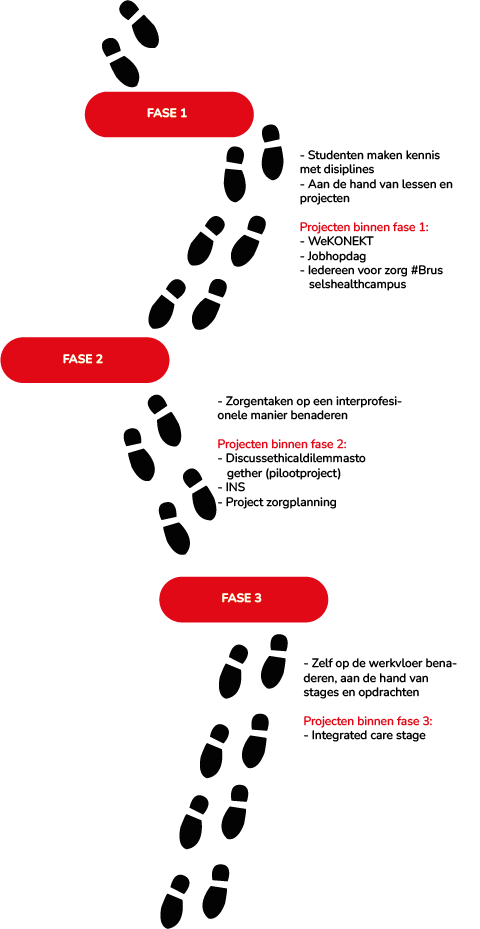
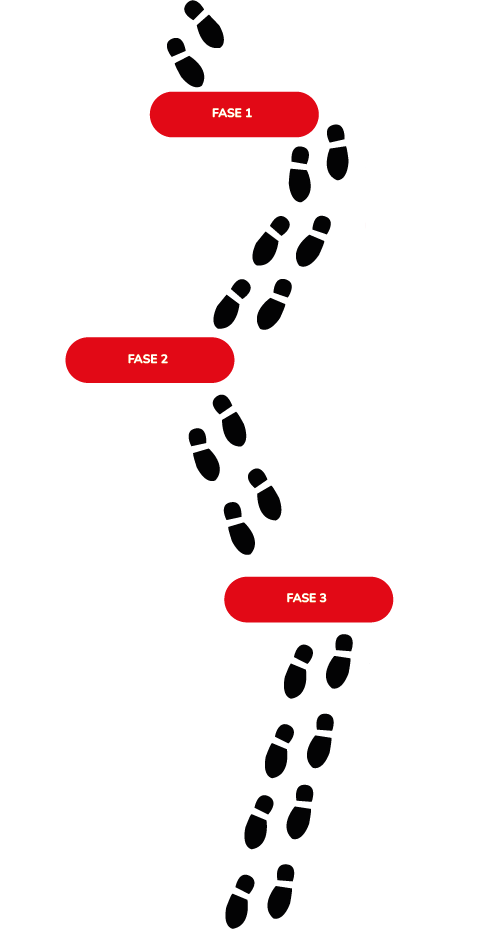
Update

diff --git a/css/style.css b/css/style.css
@@ -11,7 +11,7 @@
         }
         
         #navigation-container {
-            width: 1375px;
+            width: 1200px;
             margin: 0 auto;
             height: 70px;
         }
@@ -89,6 +89,7 @@
             font-size: 70px;
             margin-left: 15%;
             margin-top: 12%;
+            width: 65%;
         }
         
         .frontpage-small {
@@ -216,27 +217,81 @@
         .opleidingen {
             display: grid;
             grid-template-columns: 1fr 1fr;
-        }
-        
-        .logo {
-            height: 100%;
-            object-fit: cover;
-            margin: auto;
-            display: flex;
-            justify-content: center;
-            width: 85%;
-            margin-bottom: 15%;
+            margin-bottom: 5%;
+            grid-gap: 3%;
+            margin-top: 5%;
         }
         
         .opleidingen img {
             display: block;
             margin: auto;
             width: 75%;
+            border-radius: 5px;
+            height: 84%;
+            object-fit: cover;
         }
         
         .opleidingen h2 {
             font-family: 'Nunito', sans-serif;
-            font-size: 1.4em;
+            font-size: 22px;
             margin-left: 13%;
             padding: 1%;
+        }
+        
+        .opleidingen>div:nth-child(1) {
+            grid-column: 1/ 3;
+        }
+        
+        .logo {
+            object-fit: cover;
+            margin: auto;
+            width: 50%;
+        }
+        
+        .backgroundleerlijn {
+            background-image: url("../images/fase.png");
+            background-repeat: no-repeat;
+            height: 1000px;
+            background-position: center;
+            display: grid;
+            grid-template-columns: 1fr 1fr 1fr 1fr 1fr 1fr 1fr 1fr;
+            grid-template-rows: 1fr 1fr 1fr 1fr 1fr 1fr 1fr 1fr;
+        }
+        
+        .title {
+            font-size: 63px;
+            font-weight: 400;
+            color: #e30713;
+            text-align: center;
+            margin-bottom: 3%;
+        }
+        
+        .backgroundleerlijn>div:nth-child(1) {
+            grid-column: 6/8;
+            grid-row: 2/4;
+        }
+        
+        .backgroundleerlijn>div:nth-child(2) {
+            grid-column: 2/4;
+            grid-row: 4/6;
+        }
+        
+        .backgroundleerlijn>div:nth-child(3) {
+            grid-column: 6/8;
+            grid-row: 6/8;
+        }
+        
+        .backgroundleerlijn div h2 {
+            font-family: 'Nunito', sans-serif;
+            font-size: 30px;
+            font-weight: 400;
+            margin-bottom: 2%;
+            color: #e30713;
+        }
+        
+        .backgroundleerlijn div p {
+            margin-bottom: 5%;
+            font-family: 'Nunito', sans-serif;
+            font-size: 22px;
+            font-weight: 400;
         }

diff --git a/pages/wiezijnwe.html b/pages/wiezijnwe.html
@@ -37,46 +37,48 @@
 
 
     <div class="opleidingen">
+
+        <div class="logo"><img src="../images/uab_logo-1.png" alt=""> </div>
         <div class="logo"> <img src="../images/EhB-logo-transparant.png" alt=""></div>
 
         <div class="logo"> <img src="../images/logo.svg" alt=""></div>
 
         <div>
-            <h2>Geneeskunde</h2>
-            <img src="../images/studenten.png" alt="">
+            <h2>Verpleegkunde</h2>
+            <img src="../images/verpleegkunde.png" alt="">
         </div>
         <div>
             <h2>Geneeskunde</h2>
-            <img src="../images/studenten.png" alt="">
+            <img src="../images/geneeskunde.jpg" alt="">
         </div>
         <div>
-            <h2>Geneeskunde</h2>
-            <img src="../images/studenten.png" alt="">
+            <h2>Vroedkunde</h2>
+            <img src="../images/vroedkunde.jpg" alt="">
         </div>
         <div>
-            <h2>Geneeskunde</h2>
-            <img src="../images/studenten.png" alt="">
+            <h2>Revalidatiewetenschappen en kinesitherapie</h2>
+            <img src="../images/Revalidatiewetenschappen.jpg" alt="">
         </div>
         <div>
-            <h2>Geneeskunde</h2>
-            <img src="../images/studenten.png" alt="">
+            <h2>Voedings- en Dieetkunde</h2>
+            <img src="../images/voedings.jpg" alt="">
         </div>
         <div>
-            <h2>Geneeskunde</h2>
-            <img src="../images/studenten.png" alt="">
+            <h2>Farmacie</h2>
+            <img src="../images/Opleidingen/farma_master_geneesmiddelenontwikkeling1.jpg" alt="">
         </div>
         <div>
-            <h2>Geneeskunde</h2>
-            <img src="../images/studenten.png" alt="">
+            <h2>Biomedische Labratoriumtechnologie</h2>
+            <img src="../images/boimedische.jpg" alt="">
         </div>
         <div>
-            <h2>Geneeskunde</h2>
-            <img src="../images/studenten.png" alt="">
+            <h2>Psychologie</h2>
+            <img src="../images/Opleidingen/beeld60_3200x1500_px3_3.jpg" alt="">
         </div>
         <div></div>
         <div>
-            <h2>Geneeskunde</h2>
-            <img src="../images/studenten.png" alt="">
+            <h2>Sociale Agogiek</h2>
+            <img src="../images/Opleidingen/beeld60_3200x1500_px13_1.jpg" alt="">
         </div>
 
     </div>

diff --git a/pages/leerlijnIPO.html b/pages/leerlijnIPO.html
@@ -21,8 +21,28 @@
         </div>
 
     </header>
-    <section>
-        <img src="../images/fase.png" alt="">
+    <h1 class="title">Leerlijn</h1>
+    <section class="backgroundleerlijn">
+        <div>
+            <p> - Studenten maken kennis met disiplines <br> - Aan de hand van lessen en projecten</p>
+            <h2>Projecten binnen fase 1: </h2>
+            <p>- WeKONEKT <br> - Jobhopdag<br> - Iedereen voor zorg #Brus selshealthcampus
+            </p>
+        </div>
+        <div>
+            <p>- Zorgentaken op een interprofesionele manier benaderen</p>
+            <h2>Projecten binnen fase 2: </h2>
+            <p>- Discussethicaldilemmastogether (pilootproject) <br> - INS <br> - Project zorgplanning
+
+            </p>
+        </div>
+        <div>
+            <p> - Zelf op de werkvloer benaderen, aan de hand van stages en opdrachten
+            </p>
+            <h2>Projecten binnen fase 3: </h2>
+            <p>- Integrated care stage
+            </p>
+        </div>
 
     </section>
 
